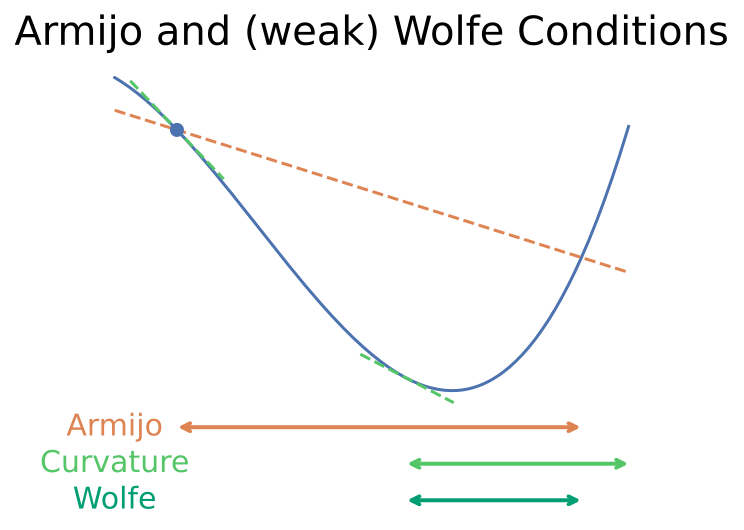
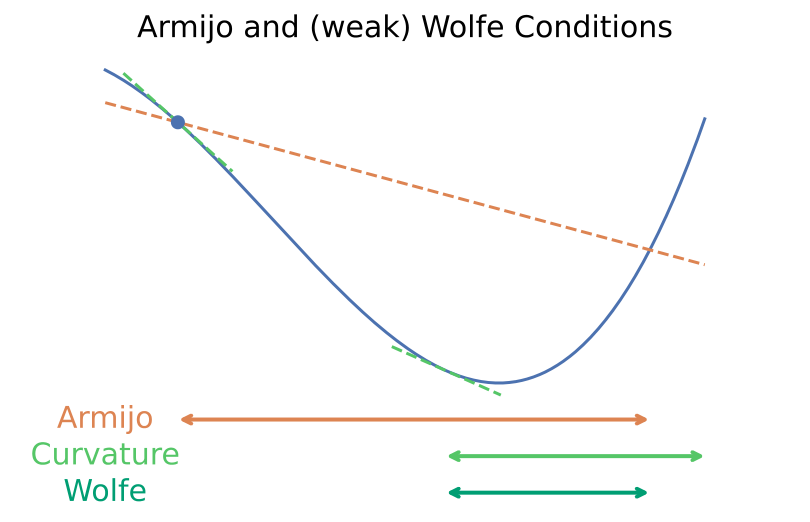
update images

diff --git a/doc/study/qiita/converters.py b/doc/study/qiita/converters.py
@@ -1,5 +1,6 @@
 """Converter functions for LaTeX to Markdown conversion."""
 
+import json
 import re
 import sys
 from pathlib import Path
@@ -280,6 +281,16 @@ def convert_math_env_to_md(block: str, env_name: str, counter: int) -> str:
     return "\n".join(result_lines)
 
 
+def add_version_query(image_path: str, url: str) -> str:
+    with open(Path(__file__).parent / "image_versions.json", "rb") as f:
+        image_versions = json.load(f)
+    print(image_path)
+    image_version = image_versions.get(image_path, 0)
+    if image_version:
+        url += f"?v={image_version}"
+    return url
+
+
 def convert_figure_to_md(block: str, counter: int) -> str:
     r"""Convert LaTeX figure block to Markdown.
 
@@ -295,6 +306,7 @@ def convert_figure_to_md(block: str, counter: int) -> str:
         if USE_GITHUB_URL:
             assert image_path.startswith("../")
             url = f"{GITHUB_RAW_URL_BASE}doc/{image_path.replace('../', '')}"
+            url = add_version_query(image_path, url)
         else:
             url = image_path
         result = f"![{image_path}]({url})\n"
@@ -305,10 +317,13 @@ def convert_figure_to_md(block: str, counter: int) -> str:
             if USE_GITHUB_URL:
                 assert image_path.startswith("../")
                 url = f"{GITHUB_RAW_URL_BASE}doc/{image_path.replace('../', '')}"
+                url = add_version_query(image_path, url)
             else:
                 url = image_path
             width = entry.get("width_percent")
             if width is not None:
+                if "modified_secant/trial" in image_path:
+                    width = "100"
                 img_tags.append(f'<img width="{width}%" src="{url}" />')
             else:
                 img_tags.append(f'<img src="{url}" />')

diff --git a/script/imgs/quasi_newton/line_search.py b/script/imgs/quasi_newton/line_search.py
@@ -1,5 +1,5 @@
-import numpy as np
 import matplotlib.pyplot as plt
+import numpy as np
 
 from qnlab.util.doc_paths import doc_imgs_dir
 
@@ -27,7 +27,7 @@ c2 = 0.5
 
 armijo_line = f0 + c1 * grad0 * (x - x0)
 
-plt.figure(figsize=(6, 4))
+plt.figure(figsize=(7, 4))
 plt.plot(x, f, color=COLOR_FUNCTION)
 plt.plot(x, armijo_line, linestyle="--", color=COLOR_ARMIJO)
 plt.scatter([x0], [f0], color=COLOR_FUNCTION, zorder=5)
@@ -102,6 +102,6 @@ plt.yticks([])
 plt.xlim(-0.5 - 0.5, 2.8 + 0.5)
 plt.ylim(min(f) - 1.5, f0 + 1)
 plt.box(False)
-plt.title("Armijo and (weak) Wolfe Conditions", fontsize=20)
+plt.title("Armijo and (weak) Wolfe Conditions", fontsize=15)
 plt.savefig(OUTPUT_DIR / "armijo_wolfe_conditions.pdf", bbox_inches="tight")
 plt.close()

diff --git a/doc/study/qiita/main.py b/doc/study/qiita/main.py
@@ -38,7 +38,7 @@ def main() -> None:
         all_markdown_lines.extend([f"\n<!-- From {main_file} -->\n", main_content])
 
     all_markdown_lines.append(
-        '\n<img width="100%" src="https://raw.githubusercontent.com/HirokiHamaguchi/qnlab/master/doc/imgs/quasi_newton/sixhump.png" />\n'
+        '\n<img width="100%" src="https://raw.githubusercontent.com/HirokiHamaguchi/qnlab/master/doc/imgs/quasi_newton/sixhump.png?v=1" />\n'
     )
 
     tex_files = [f for f in sorted(current_dir.glob("[1-4]*.tex"))]

diff --git a/doc/study/qiita/combined_output.md b/doc/study/qiita/combined_output.md
@@ -8,7 +8,7 @@
 
 数理最適化とは、このような最善の選択、およびそれを遂行する数学的手法や学問領域を指し、本稿では連続最適化、そして特にその代表的な手法であるニュートン法と準ニュートン法を中心として、基礎的な概念をまとめます。
 
-<img width="100%" src="https://raw.githubusercontent.com/HirokiHamaguchi/qnlab/master/doc/imgs/quasi_newton/sixhump.png" />
+<img width="100%" src="https://raw.githubusercontent.com/HirokiHamaguchi/qnlab/master/doc/imgs/quasi_newton/sixhump.png?v=1" />
 
 <!-- From 1_basic.tex -->
 
@@ -95,7 +95,7 @@ $\mu=0$ の場合も、同様の議論により凸性について示すことが
 
 強凸性は、凸性に加えて目的関数が一様に正の曲率を持つことを意味します。Fig. 1 に示した通り、凸関数と強凸関数には曲率に違いがみられます。$\mu=0$ を強凸の定義に含めるか否かは、文献によって多少の揺れがありますが、一般的な慣習に倣い本稿では含めません。例えば[^nesterovIntroductoryLecturesConvex2014][^kanamori2016continuous]などを参照してください。
 
-<img width="100%" src="https://raw.githubusercontent.com/HirokiHamaguchi/qnlab/master/doc/imgs/quasi_newton/convexity_comparison_convex.png" /><img width="100%" src="https://raw.githubusercontent.com/HirokiHamaguchi/qnlab/master/doc/imgs/quasi_newton/convexity_comparison_strongly_convex.png" />
+<img width="100%" src="https://raw.githubusercontent.com/HirokiHamaguchi/qnlab/master/doc/imgs/quasi_newton/convexity_comparison_convex.png?v=1" /><img width="100%" src="https://raw.githubusercontent.com/HirokiHamaguchi/qnlab/master/doc/imgs/quasi_newton/convexity_comparison_strongly_convex.png?v=1" />
 
 (Fig. 1 凸関数と強凸関数の例。 破線は $x=0$ における二次近似を示しています。 上2つの関数は凸ですが強凸ではなく、下2つの関数は強凸性の定義を満たす $\mu>0$ が存在し強凸となります。)
 
@@ -558,7 +558,7 @@ $0 < c_1 < c_2 < 1$ は定数です。
 Wolfe条件とは、Armijo 条件と曲率条件の両方が同時に満たされることを指します。
 Fig. 5 にこれらの条件が満たされる範囲を図示しています。
 
-![../imgs/quasi_newton/armijo_wolfe_conditions.png](https://raw.githubusercontent.com/HirokiHamaguchi/qnlab/master/doc/imgs/quasi_newton/armijo_wolfe_conditions.png)
+![../imgs/quasi_newton/armijo_wolfe_conditions.png](https://raw.githubusercontent.com/HirokiHamaguchi/qnlab/master/doc/imgs/quasi_newton/armijo_wolfe_conditions.png?v=1)
 
 (Fig. 5 Armijo 条件と曲率条件のイラスト。各矢印は、それぞれの条件が満たされる範囲を示しています。)
 
@@ -800,7 +800,7 @@ f''(x) & = \frac{1}{(1 + x^2)^{3/2}}.
 
 これは、最適解 $x^\ast=0$ から離れた点では、2階微分の値、つまりヘッセ行列の固有値が非常に小さくなり、ニュートンステップが過大になる為です。反復を重ねるごとに、より遠くへ飛んでいき、最適解から離れてしまいます。
 
-![../imgs/quasi_newton/newton_failure_sqrt_function_1.1.png](https://raw.githubusercontent.com/HirokiHamaguchi/qnlab/master/doc/imgs/quasi_newton/newton_failure_sqrt_function_1.1.png)
+![../imgs/quasi_newton/newton_failure_sqrt_function_1.1.png](https://raw.githubusercontent.com/HirokiHamaguchi/qnlab/master/doc/imgs/quasi_newton/newton_failure_sqrt_function_1.1.png?v=1)
 
 (Fig. 6 初期点 $x_0=1.1$ でニュートン法が発散する例)
 
@@ -828,7 +828,7 @@ f''''(x) & = \frac{e^x(1 - 4e^x + e^{2x})}{(1+e^x)^4}.
 
 それにもかかわらず、初期点 $x_0$ が $\mu$ に対して十分大きい場合、Fig. 7 に示すようにニュートン法は振動します。
 
-<img width="50%" src="https://raw.githubusercontent.com/HirokiHamaguchi/qnlab/master/doc/imgs/quasi_newton/newton_failure_strongly_convex_function_0.1_-4.png" /><img width="50%" src="https://raw.githubusercontent.com/HirokiHamaguchi/qnlab/master/doc/imgs/quasi_newton/newton_failure_strongly_convex_function_0.01_-4.png" />
+<img width="50%" src="https://raw.githubusercontent.com/HirokiHamaguchi/qnlab/master/doc/imgs/quasi_newton/newton_failure_strongly_convex_function_0.1_-4.png?v=1" /><img width="50%" src="https://raw.githubusercontent.com/HirokiHamaguchi/qnlab/master/doc/imgs/quasi_newton/newton_failure_strongly_convex_function_0.01_-4.png?v=1" />
 
 (Fig. 7 (左) $x_0=-4, \ \mu=0.1$ ではニュートン法が収束する。(右) $x_0=-4, \ \mu=0.01$ ではニュートン法が振動する。)
 
@@ -840,7 +840,7 @@ f''''(x) & = \frac{e^x(1 - 4e^x + e^{2x})}{(1+e^x)^4}.
 
 概念的な補足として、「最適化におけるニュートン法」と「根探索としてのニュートン法」の関係を簡潔に整理します。両者は密接に関係した手法ですが、考え方や適用対象は異なります。
 
-![../imgs/quasi_newton/newton_raphson.png](https://raw.githubusercontent.com/HirokiHamaguchi/qnlab/master/doc/imgs/quasi_newton/newton_raphson.png)
+![../imgs/quasi_newton/newton_raphson.png](https://raw.githubusercontent.com/HirokiHamaguchi/qnlab/master/doc/imgs/quasi_newton/newton_raphson.png?v=1)
 
 (Fig. 8 関数 $f(x)=x^3 - 2 x^2 + x$ に対する最適化と勾配 $\nabla f(x)=3 x^2 - 4 x + 1$ に対する根探索。)
 
@@ -1803,26 +1803,26 @@ f(x, y) = \frac{1}{2}(x^2 + y^2).
 
 数値結果を Table 1 に示します。これはPowellの元論文の表と部分的に一致しています。収束挙動は初期固有値 $\lambda_1$ に強く依存することが分かります。
 
-| $\lambda_1$ | BFGS | DFP  |
-| ----------- | ---- | ---- |
-| 0.001       | 4    | 3    |
-| 0.01        | 5    | 3    |
-| 0.1         | 6    | 4    |
-| 1           | 1    | 1    |
-| 10          | 8    | 16   |
-| 100         | 10   | 107  |
-| 1000        | 12   | 1006 |
-| 10000       | 15   | 9987 |
+| $\lambda_1$ | BFGS | DFP |
+| --- | --- | --- |
+| 0.001 | 4 | 3 |
+| 0.01 | 5 | 3 |
+| 0.1 | 6 | 4 |
+| 1 | 1 | 1 |
+| 10 | 8 | 16 |
+| 100 | 10 | 107 |
+| 1000 | 12 | 1006 |
+| 10000 | 15 | 9987 |
 
 (Table 1: 初期固有値 $\lambda_1$ に対するBFGSとDFPの収束比較。)
 
 Fig. 11 と Fig. 12 は特定の $\lambda_1$ に対する反復軌跡を示しています。これらの図は、同一の初期点から最小点(原点)へ向かう二つの手法の進み方を可視化し、収束速度と経路の違いを明確に示しています。
 
-![../imgs/quasi_newton/bfgs_vs_dfp_100.png](https://raw.githubusercontent.com/HirokiHamaguchi/qnlab/master/doc/imgs/quasi_newton/bfgs_vs_dfp_100.png)
+![../imgs/quasi_newton/bfgs_vs_dfp_100.png](https://raw.githubusercontent.com/HirokiHamaguchi/qnlab/master/doc/imgs/quasi_newton/bfgs_vs_dfp_100.png?v=1)
 
 (Fig. 11 $\lambda_1 = 100$ におけるBFGSとDFPの反復軌跡。BFGSは10回で収束する一方、DFPは107回を要し、固有値誤差が大きい場合にBFGSが優位であることを示しています。)
 
-![../imgs/quasi_newton/bfgs_vs_dfp_0.1.png](https://raw.githubusercontent.com/HirokiHamaguchi/qnlab/master/doc/imgs/quasi_newton/bfgs_vs_dfp_0.1.png)
+![../imgs/quasi_newton/bfgs_vs_dfp_0.1.png](https://raw.githubusercontent.com/HirokiHamaguchi/qnlab/master/doc/imgs/quasi_newton/bfgs_vs_dfp_0.1.png?v=1)
 
 (Fig. 12 $\lambda_1 = 0.1$ におけるBFGSとDFPの反復軌跡。どちらも素早く収束し、DFPがBFGSよりわずかに速くなっています。)
 
@@ -2052,7 +2052,7 @@ y_{m-1}
 
 Fig. 13 において、関数値と勾配が既知の2点 $x_k$ と $x_{k+1}$ があるとします。正確なヘッセ行列から構築された理想的な二次モデルは、新しい点 $x_{k+1}$ の周りでよくフィットしており、より良い収束挙動をもたらすことが分かります。しかし、標準的な勾配のみを用いて課されるセカント条件で作られるモデルでは、関数値の情報が無視され、曲率を大きく誤る可能性があり、真の目的関数の近似が悪くなります。
 
-<img width="33%" src="https://raw.githubusercontent.com/HirokiHamaguchi/qnlab/master/doc/imgs/modified_secant/trial_EXPLAIN.png" /><img width="33%" src="https://raw.githubusercontent.com/HirokiHamaguchi/qnlab/master/doc/imgs/modified_secant/trial_HESS.png" /><img width="33%" src="https://raw.githubusercontent.com/HirokiHamaguchi/qnlab/master/doc/imgs/modified_secant/trial_BFGS.png" />
+<img width="100%" src="https://raw.githubusercontent.com/HirokiHamaguchi/qnlab/master/doc/imgs/modified_secant/trial_EXPLAIN.png?v=1" /><img width="100%" src="https://raw.githubusercontent.com/HirokiHamaguchi/qnlab/master/doc/imgs/modified_secant/trial_HESS.png" /><img width="100%" src="https://raw.githubusercontent.com/HirokiHamaguchi/qnlab/master/doc/imgs/modified_secant/trial_BFGS.png" />
 
 (Fig. 13 標準的なセカント条件の欠点。 (a) $x_k$ と $x_{k+1}$ での関数値と勾配が既に分かっている。 (b) 正確なヘッセ行列から構築された理想的な二次モデルは、新しい点 $x_{k+1}$ の周りでよくフィットする。 (c) 標準的なセカント条件では、必ずしも十分に曲率を捉えられない。)
 
@@ -2228,7 +2228,7 @@ B_{k+1}^{\mathrm{C}} s_k = y_k + \frac{6(f(x_k) - f(x_{k+1})) + 3 s_k^\top (\nab
 
 これが三次項による修正セカント条件です。具体例としてFig. 16も参照してください。
 
-<img width="49%" src="https://raw.githubusercontent.com/HirokiHamaguchi/qnlab/master/doc/imgs/modified_secant/trial_1_cubic.png" /><img width="49%" src="https://raw.githubusercontent.com/HirokiHamaguchi/qnlab/master/doc/imgs/modified_secant/trial_1_quadratic.png" />
+<img width="100%" src="https://raw.githubusercontent.com/HirokiHamaguchi/qnlab/master/doc/imgs/modified_secant/trial_1_cubic.png" /><img width="100%" src="https://raw.githubusercontent.com/HirokiHamaguchi/qnlab/master/doc/imgs/modified_secant/trial_1_quadratic.png" />
 
 (Fig. 16 三次項による修正セカント方程式。三次項をモデルに組み込むことで、前の点で関数値と勾配の両方を一致させることが出来ます。その二次項までの展開によって、モデルを作成します。)
 
